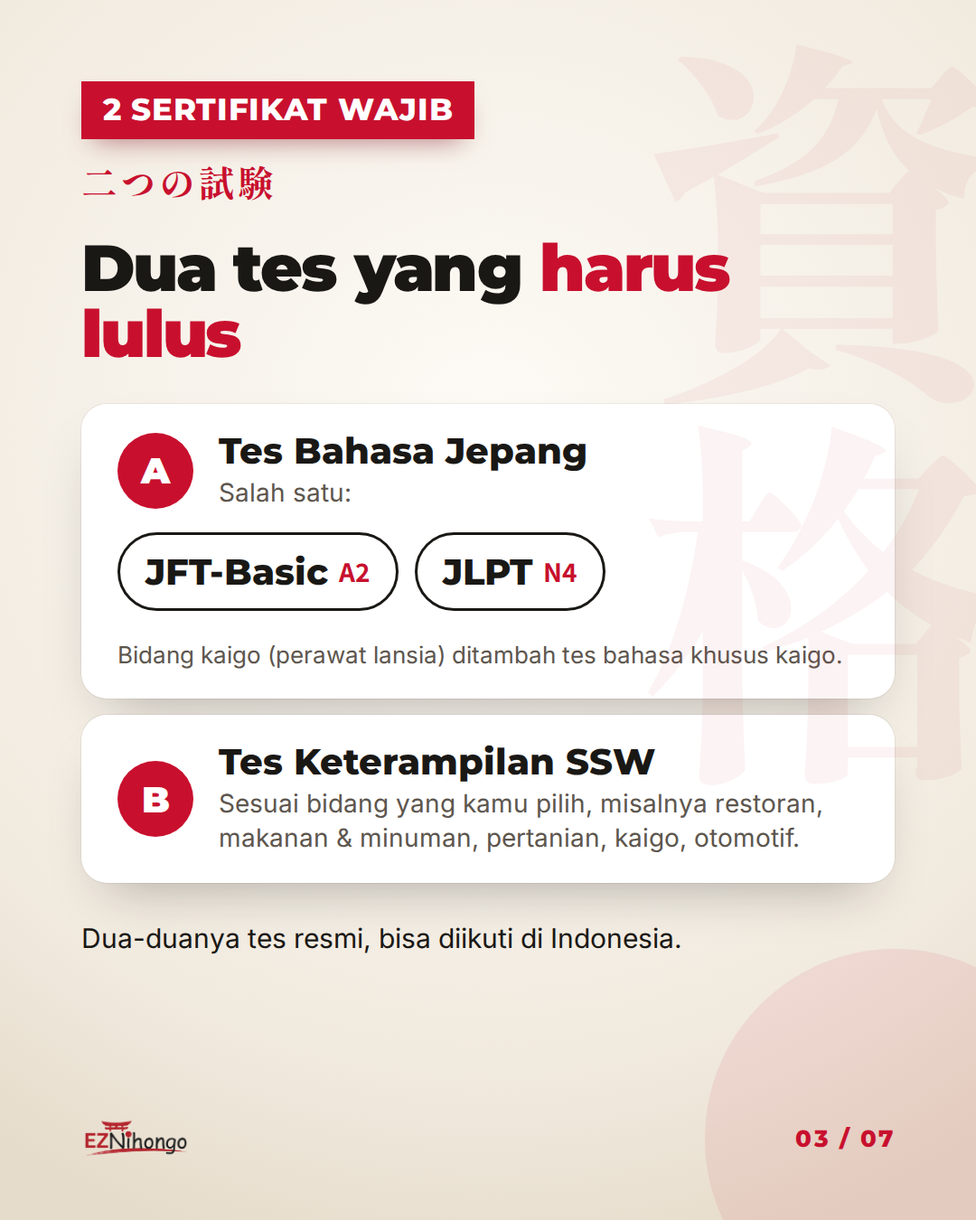
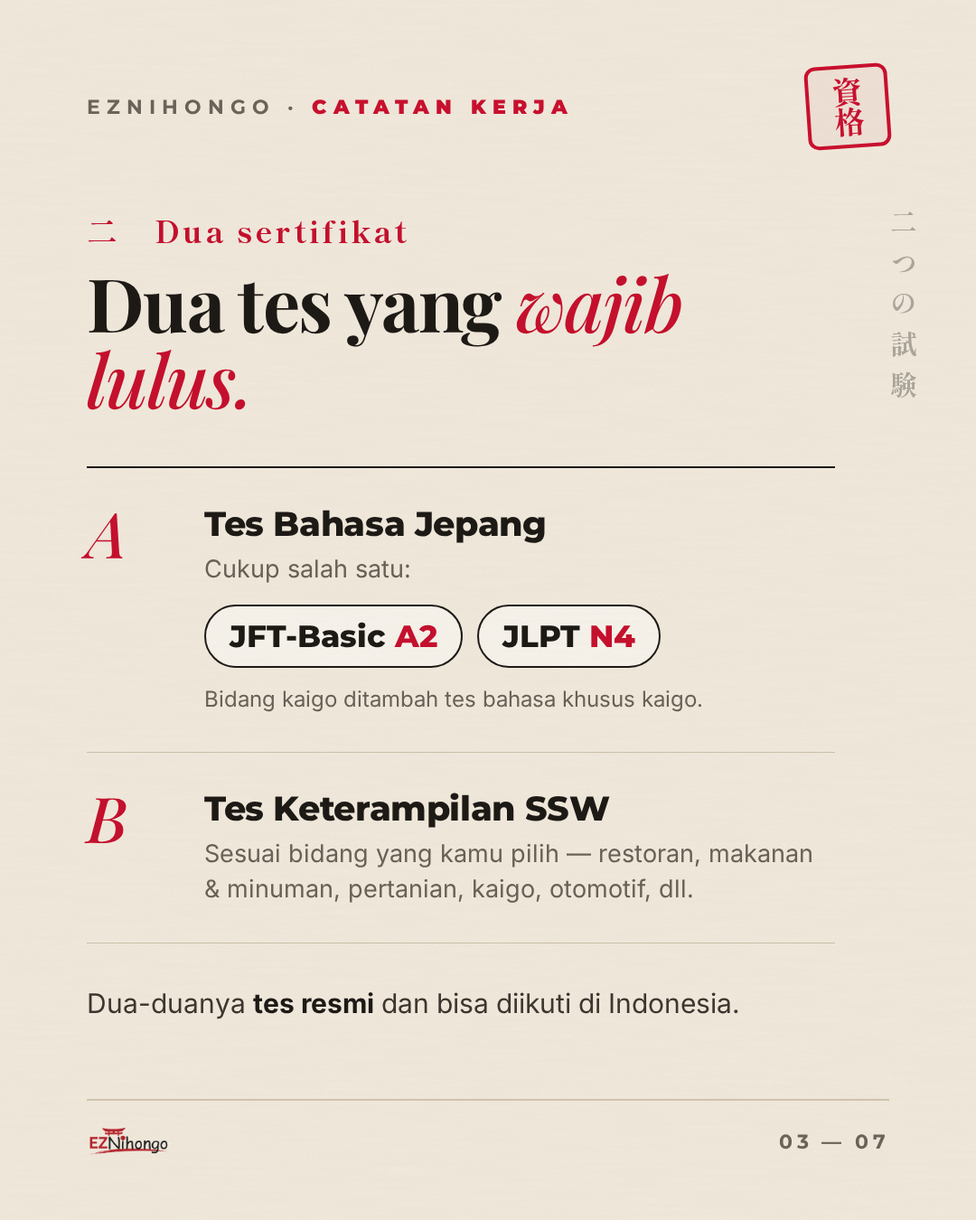
Carousel jalur mandiri: desain ulang gaya editorial washi tanpa foto
Claude-Session: https://claude.ai/code/session_01C3EzK71sv3fG4UwHrQoVjw

diff --git a/marketing/carousel-mandiri/carousel.html b/marketing/carousel-mandiri/carousel.html
@@ -1,145 +1,214 @@
 <!doctype html>
 <html lang="id"><head><meta charset="utf-8">
 <link href="https://fonts.googleapis.com/css2?family=Inter:wght@400;600;700;800&family=Montserrat:wght@600;700;800;900&family=Playfair+Display:ital,wght@0,600;0,700;1,400;1,500;1,600&family=Shippori+Mincho:wght@700;800&family=Noto+Sans+JP:wght@700&display=block" rel="stylesheet">
-<!-- Carousel "Kerja ke Jepang jalur mandiri" — 7 slide 1080×1350 (IG/TikTok foto). render: node render.mjs -->
+<!-- Carousel "Kerja ke Jepang jalur mandiri" — 7 slide 1080×1350. Gaya editorial washi: kertas, garis tinta,
+     merah vermilion, serif. Tanpa foto. Render: node render.mjs -->
 <style>
-:root{--red:#C8102E;--ink:#1a1815;--mute:#5d564e;--paper:#fbf8f2;--line:#e6ded0;--yel:#FFE11A}
+:root{--red:#C8102E;--ink:#1d1a16;--mute:#6b6258;--paper:#f3ece0;--rule:#cfc3ae;--gold:#b08a4a;--indigo:#26334f}
 *{box-sizing:border-box;margin:0;padding:0}
-body{background:#333;font-family:Inter,sans-serif;color:var(--ink)}
-.s{position:relative;width:1080px;height:1350px;overflow:hidden;margin:0 0 20px;
-  background:radial-gradient(ellipse 90% 70% at 50% 35%,#fdfbf6 0%,#f1eadf 75%,#e6dccb 100%);padding:90px 90px 0}
-.s .kj{position:absolute;right:-40px;top:40px;font-family:'Shippori Mincho';font-weight:800;font-size:420px;line-height:1;color:rgba(200,16,46,.05);writing-mode:vertical-rl}
-.s .sun{position:absolute;right:-120px;bottom:-120px;width:420px;height:420px;border-radius:50%;background:var(--red);opacity:.08}
-.foot{position:absolute;left:90px;right:90px;bottom:60px;display:flex;justify-content:space-between;align-items:center;font-family:Montserrat;font-weight:700;font-size:26px;color:var(--mute)}
-.foot img{height:60px}
-.pg{font-family:Montserrat;font-weight:800;font-size:26px;letter-spacing:.08em;color:var(--red)}
-.chip{display:inline-block;background:var(--red);color:#fff;font-family:Montserrat;font-weight:800;font-size:34px;letter-spacing:.02em;padding:10px 24px 12px;box-shadow:0 14px 30px -14px rgba(120,0,20,.55)}
-.jp{font-family:'Shippori Mincho';font-weight:800;color:var(--red);font-size:40px;letter-spacing:.08em;margin-top:18px}
-h1{font-family:Montserrat;font-weight:900;font-size:92px;line-height:.98;letter-spacing:-.035em;margin-top:34px}
-h2{font-family:Montserrat;font-weight:900;font-size:72px;line-height:1.02;letter-spacing:-.03em;margin-top:30px}
-.r{color:var(--red)}
-.it{font-family:'Playfair Display';font-style:italic;font-weight:500}
-p.lead{font-size:38px;line-height:1.4;color:#3b3631;margin-top:34px;font-weight:600}
-.card{background:#fff;border-radius:28px;box-shadow:0 30px 60px -30px rgba(26,24,21,.35),0 0 0 1px rgba(26,24,21,.06);padding:30px 40px}
-.list{margin-top:40px;display:flex;flex-direction:column;gap:18px}
-.row{display:flex;gap:28px;align-items:center}
-.num{flex:none;width:84px;height:84px;border-radius:50%;background:var(--red);color:#fff;display:grid;place-items:center;font-family:Montserrat;font-weight:900;font-size:40px}
-.row>div>b{display:block;font-family:Montserrat;font-weight:800;font-size:40px;line-height:1.1}
-.row>div>span{display:block;font-size:28px;color:var(--mute);margin-top:6px;line-height:1.35}
-.next{position:absolute;right:90px;bottom:150px;font-family:Montserrat;font-weight:800;font-size:30px;color:var(--red)}
-.tags{display:flex;flex-wrap:wrap;gap:18px;margin-top:44px}
-.tag{background:#fff;border:3px solid var(--ink);border-radius:999px;padding:16px 28px;font-family:Montserrat;font-weight:800;font-size:34px;display:flex;gap:12px;align-items:center}
-.tag i{font-style:normal;font-family:'Noto Sans JP';font-weight:700;color:var(--red);font-size:28px}
-.note{font-size:26px;color:var(--mute);margin-top:30px;line-height:1.45}
-.vs{display:grid;grid-template-columns:1fr 1fr;gap:26px;margin-top:44px}
-.vs .card h3{font-family:Montserrat;font-weight:900;font-size:40px;margin-bottom:16px}
-.vs .card li{font-size:29px;line-height:1.4;margin:0 0 10px 30px}
-.hl{border:4px solid var(--red)}
-.cta{display:inline-flex;background:var(--red);color:#fff;font-family:Montserrat;font-weight:800;font-size:46px;padding:28px 56px;border-radius:20px;box-shadow:0 26px 60px -20px rgba(200,16,46,.65)}
-.cover{padding:0}
-.cover img.bg{position:absolute;inset:0;width:100%;height:100%;object-fit:cover;object-position:50% 40%}
-.cover .shade{position:absolute;inset:0;background:linear-gradient(180deg,rgba(8,10,18,.25) 0%,rgba(8,10,18,.1) 30%,rgba(8,10,18,.82) 70%,rgba(8,10,18,.92) 100%)}
-.cover .in{position:absolute;left:80px;right:80px;bottom:150px;color:#fff}
-.cover h1{font-size:104px;color:#fff;text-shadow:0 8px 30px rgba(0,0,0,.4)}
-.cover h1 .y{color:var(--yel)}
-.cover p.lead{color:#f2ede4;font-size:40px}
-.cover .foot{color:#e9e2d6}
-.swipe{font-family:Montserrat;font-weight:800;font-size:30px;color:#fff;opacity:.9}
+body{background:#222;font-family:Inter,sans-serif;color:var(--ink)}
+.s{position:relative;width:1080px;height:1350px;overflow:hidden;margin:0 0 20px;background:var(--paper);padding:0 96px}
+.grain{position:absolute;inset:0;pointer-events:none;opacity:.55;mix-blend-mode:multiply}
+.top{position:absolute;left:96px;right:96px;top:72px;display:flex;justify-content:space-between;align-items:center}
+.lbl{font-family:Montserrat;font-weight:700;font-size:22px;letter-spacing:.32em;color:var(--mute)}
+.lbl b{color:var(--red)}
+.hanko{width:92px;height:92px;border:4px solid var(--red);border-radius:12px;color:var(--red);display:grid;place-items:center;font-family:'Shippori Mincho';font-weight:800;font-size:34px;line-height:1;writing-mode:vertical-rl;transform:rotate(-4deg);background:rgba(200,16,46,.04)}
+.foot{position:absolute;left:96px;right:96px;bottom:64px;padding-top:22px;border-top:2px solid var(--rule);display:flex;justify-content:space-between;align-items:center;font-family:Montserrat;font-weight:700;font-size:22px;letter-spacing:.2em;color:var(--mute)}
+.foot img{height:46px}
+.vert{position:absolute;right:58px;top:230px;writing-mode:vertical-rl;font-family:'Shippori Mincho';font-weight:700;font-size:30px;letter-spacing:.5em;color:rgba(29,26,22,.32)}
+.kicker{font-family:'Shippori Mincho';font-weight:800;font-size:34px;color:var(--red);letter-spacing:.1em}
+h1,h2{font-family:'Playfair Display';font-weight:700;letter-spacing:-.02em;line-height:1.02}
+h1{font-size:112px}
+h2{font-size:82px;margin-top:14px}
+em{font-style:italic;font-weight:500;color:var(--red)}
+.body{font-size:34px;line-height:1.5;color:#3d3730}
+.body b{color:var(--ink)}
+.small{font-size:26px;line-height:1.5;color:var(--mute)}
+/* list bernomor ala editorial */
+.ol{margin-top:56px;border-top:2px solid var(--ink)}
+.li{display:flex;gap:34px;padding:30px 0;border-bottom:1px solid var(--rule);align-items:flex-start}
+.li .n{flex:none;width:96px;font-family:'Playfair Display';font-style:italic;font-weight:500;font-size:70px;line-height:.9;color:var(--red)}
+.li h3{font-family:Montserrat;font-weight:800;font-size:38px;letter-spacing:-.01em;line-height:1.15}
+.li p{font-size:27px;line-height:1.45;color:var(--mute);margin-top:8px}
+.li.hl{background:linear-gradient(90deg,rgba(200,16,46,.07),rgba(200,16,46,0));margin:0 -24px;padding:30px 24px}
+.pill{display:inline-flex;align-items:baseline;gap:10px;border:2px solid var(--ink);border-radius:999px;padding:12px 26px;font-family:Montserrat;font-weight:800;font-size:34px;background:rgba(255,255,255,.5)}
+.pill i{font-style:normal;color:var(--red)}
+/* grid bidang */
+.grid{display:grid;grid-template-columns:repeat(3,1fr);margin-top:54px;border-top:2px solid var(--ink);border-left:1px solid var(--rule)}
+.cell{border-right:1px solid var(--rule);border-bottom:1px solid var(--rule);height:196px;padding:26px 24px;display:flex;flex-direction:column;justify-content:space-between}
+.cell .k{font-family:'Shippori Mincho';font-weight:800;font-size:54px;line-height:1.05;color:var(--ink)}
+.cell .k.sm{font-size:40px}
+.cell .t{font-family:Montserrat;font-weight:700;font-size:23px;letter-spacing:.02em;color:var(--mute)}
+.cell.on{background:var(--red)}.cell.on .k,.cell.on .t{color:#fff}
+/* perbandingan */
+.cmp{display:grid;grid-template-columns:1fr 1px 1fr;gap:44px;margin-top:60px}
+.cmp .bar{background:var(--rule)}
+.cmp h3{font-family:'Playfair Display';font-weight:700;font-size:54px;margin:14px 0 22px}
+.cmp .tag{font-family:Montserrat;font-weight:700;font-size:20px;letter-spacing:.3em;color:var(--mute)}
+.cmp ul{list-style:none}
+.cmp li{font-size:30px;line-height:1.4;padding:14px 0;border-top:1px solid var(--rule)}
+.cmp li::before{content:'— ';color:var(--mute)}
+.cmp .win li::before{content:'✓ ';color:var(--red);font-weight:800}
+/* timeline */
+.tl{position:relative;margin-top:56px;padding-left:90px}
+.tl::before{content:'';position:absolute;left:28px;top:20px;bottom:40px;border-left:3px dashed var(--rule)}
+.st{position:relative;padding-bottom:42px}
+.st .dot{position:absolute;left:-90px;top:0;width:58px;height:58px;border-radius:50%;background:var(--paper);border:3px solid var(--red);display:grid;place-items:center;font-family:'Shippori Mincho';font-weight:800;font-size:28px;color:var(--red)}
+.st h3{font-family:Montserrat;font-weight:800;font-size:40px;line-height:1.15}
+.st p{font-size:28px;line-height:1.45;color:var(--mute);margin-top:8px}
+.st p b{color:var(--ink)}
+.warn{margin-top:6px;border:2px solid var(--ink);padding:22px 28px;font-size:26px;line-height:1.45;background:rgba(255,255,255,.45)}
+.warn b{font-family:Montserrat;font-weight:800;color:var(--red);letter-spacing:.12em;font-size:22px;display:block;margin-bottom:6px}
+.cta{display:inline-flex;align-items:center;gap:18px;background:var(--red);color:#fff;font-family:Montserrat;font-weight:800;font-size:44px;padding:28px 54px;border-radius:999px}
 </style></head><body>
 
-<!-- 1. HOOK -->
-<section class="s cover" id="s1">
-  <img class="bg" src="../../assets/landing/tokyo.jpg">
-  <div class="shade"></div>
-  <div style="position:absolute;left:80px;top:90px"><span class="chip">BANYAK YANG BELUM TAU‼</span></div>
-  <div class="in">
-    <h1>Kerja ke Jepang <span class="y">ga harus</span> lewat agen.</h1>
-    <p class="lead">Ada jalur <b>mandiri</b> lewat visa SSW (Tokutei Ginou). Biayanya jauh lebih kecil, asal syaratnya kamu kejar sendiri.</p>
+<svg width="0" height="0" style="position:absolute">
+  <defs>
+    <filter id="paper"><feTurbulence type="fractalNoise" baseFrequency=".9" numOctaves="3" seed="4"/><feColorMatrix values="0 0 0 0 .45  0 0 0 0 .38  0 0 0 0 .28  0 0 0 .16 0"/></filter>
+    <filter id="fiber"><feTurbulence type="fractalNoise" baseFrequency=".012 .22" numOctaves="2" seed="9"/><feColorMatrix values="0 0 0 0 .5  0 0 0 0 .42  0 0 0 0 .3  0 0 0 .1 0"/></filter>
+    <pattern id="seigaiha" width="120" height="60" patternUnits="userSpaceOnUse">
+      <g fill="none" stroke="rgba(38,51,79,.16)" stroke-width="2.2">
+        <g id="sg"><circle cx="60" cy="60" r="56"/><circle cx="60" cy="60" r="44"/><circle cx="60" cy="60" r="32"/><circle cx="60" cy="60" r="20"/><circle cx="60" cy="60" r="8"/></g>
+        <use href="#sg" x="-60" y="-30"/><use href="#sg" x="60" y="-30"/><use href="#sg" x="-60" y="30"/><use href="#sg" x="60" y="30"/>
+      </g>
+    </pattern>
+    <symbol id="fuji" viewBox="0 0 900 300"><g fill="none" stroke="currentColor" stroke-width="5" stroke-linecap="round" stroke-linejoin="round">
+      <path d="M0 290 C120 270 230 200 340 66 L395 60 L420 76 L450 58 L480 74 L505 60 L560 66 C670 200 780 270 900 290"/>
+    </g></symbol>
+    <symbol id="torii" viewBox="0 0 300 260"><g fill="currentColor">
+      <path d="M0 20 Q150 -6 300 20 L294 46 Q150 24 6 46Z"/><rect x="26" y="70" width="248" height="20"/>
+      <rect x="54" y="40" width="26" height="220"/><rect x="220" y="40" width="26" height="220"/><rect x="138" y="44" width="24" height="30"/></g></symbol>
+    <symbol id="plane" viewBox="0 0 64 64"><path fill="currentColor" d="M60 30 L36 26 L22 4 h-6 l8 22 H10 L4 18 H0 l4 14 -4 14 h4 l6 -8 h14 l-8 22 h6 l14 -22 24 -4 c3 0 3 -4 0 -4z"/></symbol>
+  </defs>
+</svg>
+
+<!-- 1 COVER -->
+<section class="s" id="s1">
+  <div style="position:absolute;left:50%;top:190px;width:520px;height:520px;margin-left:-260px;border-radius:50%;background:var(--red)"></div>
+  <svg style="position:absolute;left:-40px;top:460px;width:1160px;height:387px;color:var(--ink)"><use href="#fuji"/></svg>
+  <svg style="position:absolute;left:0;right:0;bottom:0;width:1080px;height:120px"><rect width="1080" height="120" fill="url(#seigaiha)"/></svg>
+  <div class="top"><span class="lbl">EZNIHONGO · <b>CATATAN KERJA</b></span><div class="hanko">必読</div></div>
+  <div style="position:absolute;left:96px;right:96px;top:790px">
+    <div class="kicker" style="margin-bottom:14px">Banyak yang belum tau —</div>
+    <h1 style="font-size:100px">Kerja ke Jepang, <em>tanpa</em> lewat agen.</h1>
+    <p class="body" style="margin-top:22px;font-size:32px;padding-right:40px">Jalur <b>mandiri</b> visa SSW (Tokutei Ginou) — biaya jauh lebih kecil, asal syaratnya kamu kejar sendiri.</p>
   </div>
-  <div class="foot"><img src="logo-a.png" style="height:80px;filter:brightness(0) invert(1)"><span class="swipe">geser →</span></div>
+  <div style="position:absolute;right:96px;bottom:136px;font-family:Montserrat;font-weight:800;font-size:24px;letter-spacing:.3em;color:var(--red)">GESER →</div>
 </section>
 
-<!-- 2. SYARAT -->
-<section class="s" id="s2"><div class="kj">条件</div><div class="sun"></div>
-  <span class="chip">SYARAT DASAR</span><div class="jp">応募条件</div>
-  <h2>Yang perlu kamu <span class="r">siapkan</span></h2>
-  <div class="list">
-    <div class="row card"><div class="num">1</div><div><b>Usia 18 tahun ke atas</b><span>Banyak perusahaan mencari usia ±18–35, tapi tidak ada batas atas resmi.</span></div></div>
-    <div class="row card"><div class="num">2</div><div><b>Pendidikan min. SMA/sederajat</b><span>Umumnya diminta perusahaan &amp; proses di Indonesia.</span></div></div>
-    <div class="row card"><div class="num">3</div><div><b>Sehat jasmani &amp; rohani</b><span>Ada pemeriksaan kesehatan sebelum berangkat.</span></div></div>
-    <div class="row card hl"><div class="num">4</div><div><b>Punya <span class="r">2 sertifikat</span></b><span>Bahasa Jepang + keterampilan bidang kerja. Lihat slide berikut.</span></div></div>
+<!-- 2 SYARAT -->
+<section class="s" id="s2">
+  <div class="top"><span class="lbl">EZNIHONGO · <b>CATATAN KERJA</b></span><div class="hanko">条件</div></div>
+  <div class="vert">応募条件・特定技能</div>
+  <div style="padding-top:230px;padding-right:60px">
+    <div class="kicker">一　Syarat dasar</div>
+    <h2>Yang perlu kamu <em>siapkan.</em></h2>
+    <div class="ol">
+      <div class="li"><div class="n">01</div><div><h3>Usia 18 tahun ke atas</h3><p>Banyak perusahaan mencari ±18–35, tapi tidak ada batas atas resmi.</p></div></div>
+      <div class="li"><div class="n">02</div><div><h3>Minimal SMA / sederajat</h3><p>Umumnya diminta perusahaan &amp; proses di Indonesia.</p></div></div>
+      <div class="li"><div class="n">03</div><div><h3>Sehat jasmani &amp; rohani</h3><p>Ada pemeriksaan kesehatan sebelum berangkat.</p></div></div>
+      <div class="li hl"><div class="n">04</div><div><h3>Punya <span style="color:var(--red)">2 sertifikat</span></h3><p>Bahasa Jepang + keterampilan bidang kerja →</p></div></div>
+    </div>
   </div>
-  <div class="foot"><img src="logo-a.png"><span class="pg">02 / 07</span></div>
+  <div class="foot"><img src="logo-a.png"><span>02 — 07</span></div>
 </section>
 
-<!-- 3. DUA SERTIFIKAT -->
-<section class="s" id="s3"><div class="kj">資格</div><div class="sun"></div>
-  <span class="chip">2 SERTIFIKAT WAJIB</span><div class="jp">二つの試験</div>
-  <h2>Dua tes yang <span class="r">harus lulus</span></h2>
-  <div class="list">
-    <div class="card"><div class="row"><div class="num">A</div><div><b>Tes Bahasa Jepang</b><span>Salah satu:</span></div></div>
-      <div style="display:flex;gap:18px;margin-top:24px">
-        <div class="tag" style="font-size:40px">JFT-Basic <i>A2</i></div><div class="tag" style="font-size:40px">JLPT <i>N4</i></div>
-      </div>
-      <div class="note">Bidang kaigo (perawat lansia) ditambah tes bahasa khusus kaigo.</div></div>
-    <div class="card"><div class="row"><div class="num">B</div><div><b>Tes Keterampilan SSW</b><span>Sesuai bidang yang kamu pilih, misalnya restoran, makanan &amp; minuman, pertanian, kaigo, otomotif.</span></div></div></div>
+<!-- 3 SERTIFIKAT -->
+<section class="s" id="s3">
+  <div class="top"><span class="lbl">EZNIHONGO · <b>CATATAN KERJA</b></span><div class="hanko">資格</div></div>
+  <div class="vert">二つの試験</div>
+  <div style="padding-top:230px;padding-right:60px">
+    <div class="kicker">二　Dua sertifikat</div>
+    <h2>Dua tes yang <em>wajib lulus.</em></h2>
+    <div class="ol">
+      <div class="li" style="padding:40px 0"><div class="n">A</div><div style="flex:1"><h3>Tes Bahasa Jepang</h3><p>Cukup salah satu:</p>
+        <div style="display:flex;gap:16px;margin-top:20px"><span class="pill">JFT-Basic <i>A2</i></span><span class="pill">JLPT <i>N4</i></span></div>
+        <p style="margin-top:18px;font-size:24px">Bidang kaigo ditambah tes bahasa khusus kaigo.</p></div></div>
+      <div class="li" style="padding:40px 0"><div class="n">B</div><div><h3>Tes Keterampilan SSW</h3><p>Sesuai bidang yang kamu pilih — restoran, makanan &amp; minuman, pertanian, kaigo, otomotif, dll.</p></div></div>
+    </div>
+    <p class="body" style="margin-top:44px;font-size:30px">Dua-duanya <b>tes resmi</b> dan bisa diikuti di Indonesia.</p>
   </div>
-  <div class="note" style="font-size:30px;color:var(--ink);margin-top:40px">Dua-duanya tes resmi, bisa diikuti di Indonesia.</div>
-  <div class="foot"><img src="logo-a.png"><span class="pg">03 / 07</span></div>
+  <div class="foot"><img src="logo-a.png"><span>03 — 07</span></div>
 </section>
 
-<!-- 4. BIDANG -->
-<section class="s" id="s4"><div class="kj">分野</div><div class="sun"></div>
-  <span class="chip">PILIH BIDANGMU</span><div class="jp">特定技能の分野</div>
-  <h2>Jalur mandiri = kamu <span class="r">pilih sendiri</span> bidangnya</h2>
-  <div class="tags">
-    <div class="tag">Perawat lansia <i>介護</i></div>
-    <div class="tag">Pengolahan makanan <i>飲食料品製造</i></div>
-    <div class="tag">Restoran <i>外食</i></div>
-    <div class="tag">Manufaktur <i>工業製品製造</i></div>
-    <div class="tag">Pertanian <i>農業</i></div>
-    <div class="tag">Konstruksi <i>建設</i></div>
-    <div class="tag">Perhotelan <i>宿泊</i></div>
-    <div class="tag">Otomotif <i>自動車整備</i></div>
-    <div class="tag">Kebersihan gedung <i>ビルクリーニング</i></div>
+<!-- 4 BIDANG -->
+<section class="s" id="s4">
+  <div class="top"><span class="lbl">EZNIHONGO · <b>CATATAN KERJA</b></span><div class="hanko">分野</div></div>
+  <div style="padding-top:230px">
+    <div class="kicker">三　Pilih bidangmu</div>
+    <h2>Jalur mandiri, <em>bidangnya kamu yang pilih.</em></h2>
+    <div class="grid">
+      <div class="cell on"><div class="k">介護</div><div class="t">Perawat lansia</div></div>
+      <div class="cell"><div class="k">外食</div><div class="t">Restoran</div></div>
+      <div class="cell"><div class="k sm">飲食料品<br>製造</div><div class="t">Pengolahan makanan</div></div>
+      <div class="cell"><div class="k">農業</div><div class="t">Pertanian</div></div>
+      <div class="cell"><div class="k">建設</div><div class="t">Konstruksi</div></div>
+      <div class="cell"><div class="k">宿泊</div><div class="t">Perhotelan</div></div>
+      <div class="cell"><div class="k sm">工業製品<br>製造</div><div class="t">Manufaktur</div></div>
+      <div class="cell"><div class="k sm">自動車<br>整備</div><div class="t">Otomotif</div></div>
+      <div class="cell"><div class="k sm">ビル<br>清掃</div><div class="t">Kebersihan gedung</div></div>
+    </div>
+    <p class="small" style="margin-top:26px">…dan bidang SSW lainnya. Pilih sesuai minat &amp; pengalaman, lalu ikut tes keterampilannya.</p>
   </div>
-  <div class="note" style="font-size:30px">…dan bidang SSW lainnya. Pilih yang sesuai minat &amp; pengalamanmu, lalu ikut tes keterampilan bidang itu.</div>
-  <div class="foot"><img src="logo-a.png"><span class="pg">04 / 07</span></div>
+  <div class="foot"><img src="logo-a.png"><span>04 — 07</span></div>
 </section>
 
-<!-- 5. CARA DAPAT SERTIFIKAT -->
-<section class="s" id="s5"><div class="kj">勉強</div><div class="sun"></div>
-  <span class="chip">CARA LULUS TESNYA</span><div class="jp">どうやって合格する？</div>
-  <h2>Belajar sendiri, atau <span class="r">dibimbing?</span></h2>
-  <div class="vs">
-    <div class="card"><h3>Otodidak</h3><ul><li>Gratis / murah</li><li>Butuh disiplin tinggi</li><li>Gampang bingung harus mulai dari mana</li></ul></div>
-    <div class="card hl"><h3 class="r">Kelas bimbingan</h3><ul><li>Ada sensei &amp; jadwal tetap</li><li>Teman seperjuangan</li><li>Lebih cepat siap tes</li></ul></div>
+<!-- 5 CARA -->
+<section class="s" id="s5">
+  <div class="top"><span class="lbl">EZNIHONGO · <b>CATATAN KERJA</b></span><div class="hanko">勉強</div></div>
+  <div class="vert">合格への道</div>
+  <div style="padding-top:230px;padding-right:60px">
+    <div class="kicker">四　Cara lulus tesnya</div>
+    <h2>Belajar sendiri, atau <em>dibimbing?</em></h2>
+    <div class="cmp">
+      <div><div class="tag">PILIHAN 1</div><h3>Otodidak</h3><ul><li>Gratis atau murah</li><li>Butuh disiplin tinggi</li><li>Sering bingung mulai dari mana</li></ul></div>
+      <div class="bar"></div>
+      <div class="win"><div class="tag" style="color:var(--red)">PILIHAN 2</div><h3>Dibimbing</h3><ul><li>Ada sensei &amp; jadwal tetap</li><li>Teman seperjuangan</li><li>Lebih cepat siap tes</li></ul></div>
+    </div>
+    <div style="margin-top:64px;padding:34px 0;border-top:2px solid var(--ink);border-bottom:2px solid var(--ink)">
+      <p style="font-family:'Playfair Display';font-size:46px;line-height:1.25">Bagian paling lama? <em>Bahasanya.</em></p>
+      <p class="small" style="margin-top:10px">Tes keterampilan biasanya lebih cepat dikejar.</p>
+    </div>
   </div>
-  <p class="lead" style="font-size:36px">Bagian yang paling lama? <b>Bahasanya.</b> <span class="it" style="font-size:40px">Tes keterampilan biasanya lebih cepat dikejar.</span></p>
-  <div class="foot"><img src="logo-a.png"><span class="pg">05 / 07</span></div>
+  <div class="foot"><img src="logo-a.png"><span>05 — 07</span></div>
 </section>
 
-<!-- 6. ALUR SETELAH LULUS -->
-<section class="s" id="s6"><div class="kj">出発</div><div class="sun"></div>
-  <span class="chip">SETELAH LULUS</span><div class="jp">出発までの流れ</div>
-  <h2>Alurnya sampai <span class="r">berangkat</span></h2>
-  <div class="list" style="gap:16px">
-    <div class="row card"><div class="num">1</div><div><b>Lamar kerja &amp; wawancara</b><span>Wawancara dengan perusahaan Jepang <b>tidak dipungut biaya</b>.</span></div></div>
-    <div class="row card"><div class="num">2</div><div><b>Siapkan dokumen &amp; visa</b><span>Kontrak kerja, COE, visa SSW. Berangkat resmi &amp; legal.</span></div></div>
-    <div class="row card"><div class="num">3</div><div><b>Tiket pesawat</b><span>Kadang ditanggung perusahaan, kadang beli sendiri (ekonomi ±Rp4–5 juta sekali jalan).</span></div></div>
+<!-- 6 ALUR -->
+<section class="s" id="s6">
+  <div class="top"><span class="lbl">EZNIHONGO · <b>CATATAN KERJA</b></span><div class="hanko">出発</div></div>
+  <svg style="position:absolute;right:110px;top:250px;width:120px;height:120px;color:var(--red);transform:rotate(-20deg)"><use href="#plane"/></svg>
+  <div style="padding-top:230px;padding-right:60px">
+    <div class="kicker">五　Setelah lulus</div>
+    <h2>Alurnya sampai <em>berangkat.</em></h2>
+    <div class="tl">
+      <div class="st"><div class="dot">一</div><h3>Lamar kerja &amp; wawancara</h3><p>Wawancara dengan perusahaan Jepang <b>tidak dipungut biaya.</b></p></div>
+      <div class="st"><div class="dot">二</div><h3>Dokumen &amp; visa</h3><p>Kontrak kerja, COE, lalu visa SSW. Berangkat <b>resmi &amp; legal.</b></p></div>
+      <div class="st"><div class="dot">三</div><h3>Tiket pesawat</h3><p>Kadang ditanggung perusahaan, kadang beli sendiri — kelas ekonomi <b>±Rp4–5 juta</b> sekali jalan.</p></div>
+    </div>
+    <div class="warn"><b>HATI-HATI</b>Jangan percaya pihak yang minta bayaran besar untuk "menjamin" lolos wawancara.</div>
   </div>
-  <div class="note">⚠ Waspada pihak yang minta bayaran besar untuk "menjamin" lolos wawancara.</div>
-  <div class="foot"><img src="logo-a.png"><span class="pg">06 / 07</span></div>
+  <div class="foot"><img src="logo-a.png"><span>06 — 07</span></div>
 </section>
 
-<!-- 7. CTA -->
-<section class="s" id="s7" style="text-align:center"><div class="sun" style="right:auto;left:50%;margin-left:-170px;width:340px;height:340px;bottom:auto;top:80px;opacity:1"></div>
-  <div style="height:230px"></div>
-  <img src="logo-a.png" style="width:760px;position:relative">
-  <div class="jp" style="font-size:48px">学ぶ・備える・未来へ</div>
-  <h2 style="font-size:78px;margin-top:40px">Kerja ke Jepang?<br><span class="r">Mulai dari bahasanya.</span></h2>
-  <p class="lead" style="font-size:34px">Bootcamp live bareng sensei 2× seminggu, ada rekamannya, plus latihan harian di HP.</p>
-  <div style="margin-top:40px"><span class="cta">eznihongo.com ↗</span></div>
-  <div class="note" style="font-size:28px;margin-top:26px">Tanya-tanya dulu? WA admin: 0812-9489-4557</div>
+<!-- 7 CTA -->
+<section class="s" id="s7" style="text-align:center">
+  <div class="top"><span class="lbl">EZNIHONGO · <b>CATATAN KERJA</b></span><div class="hanko">始</div></div>
+  <div style="position:absolute;left:50%;top:170px;width:360px;height:360px;margin-left:-180px;border-radius:50%;background:var(--red)"></div>
+  <svg style="position:absolute;left:50%;top:300px;width:330px;height:286px;margin-left:-165px;color:var(--ink)"><use href="#torii"/></svg>
+  <svg style="position:absolute;left:0;right:0;bottom:0;width:1080px;height:90px"><rect width="1080" height="90" fill="url(#seigaiha)"/></svg>
+  <div style="padding-top:640px">
+    <div class="kicker" style="font-size:40px;letter-spacing:.3em">学ぶ・備える・未来へ</div>
+    <h2 style="font-size:84px;margin-top:18px">Kerja ke Jepang?<br><em>Mulai dari bahasanya.</em></h2>
+    <p class="body" style="font-size:30px;margin-top:22px">Bootcamp live bareng sensei 2× seminggu, ada rekamannya,<br>plus latihan harian di HP.</p>
+    <div style="margin-top:36px"><span class="cta">eznihongo.com <span style="font-size:36px">↗</span></span></div>
+    <p class="small" style="margin-top:20px">Tanya dulu? WA admin 0812-9489-4557</p>
+  </div>
 </section>
+
+<script>
+// lapisan kertas (grain + serat) di setiap slide
+document.querySelectorAll('.s').forEach(s=>{
+  s.insertAdjacentHTML('afterbegin','<svg class="grain" width="1080" height="1350"><rect width="1080" height="1350" filter="url(#paper)"/><rect width="1080" height="1350" filter="url(#fiber)"/></svg>');
+});
+</script>
 </body></html>
